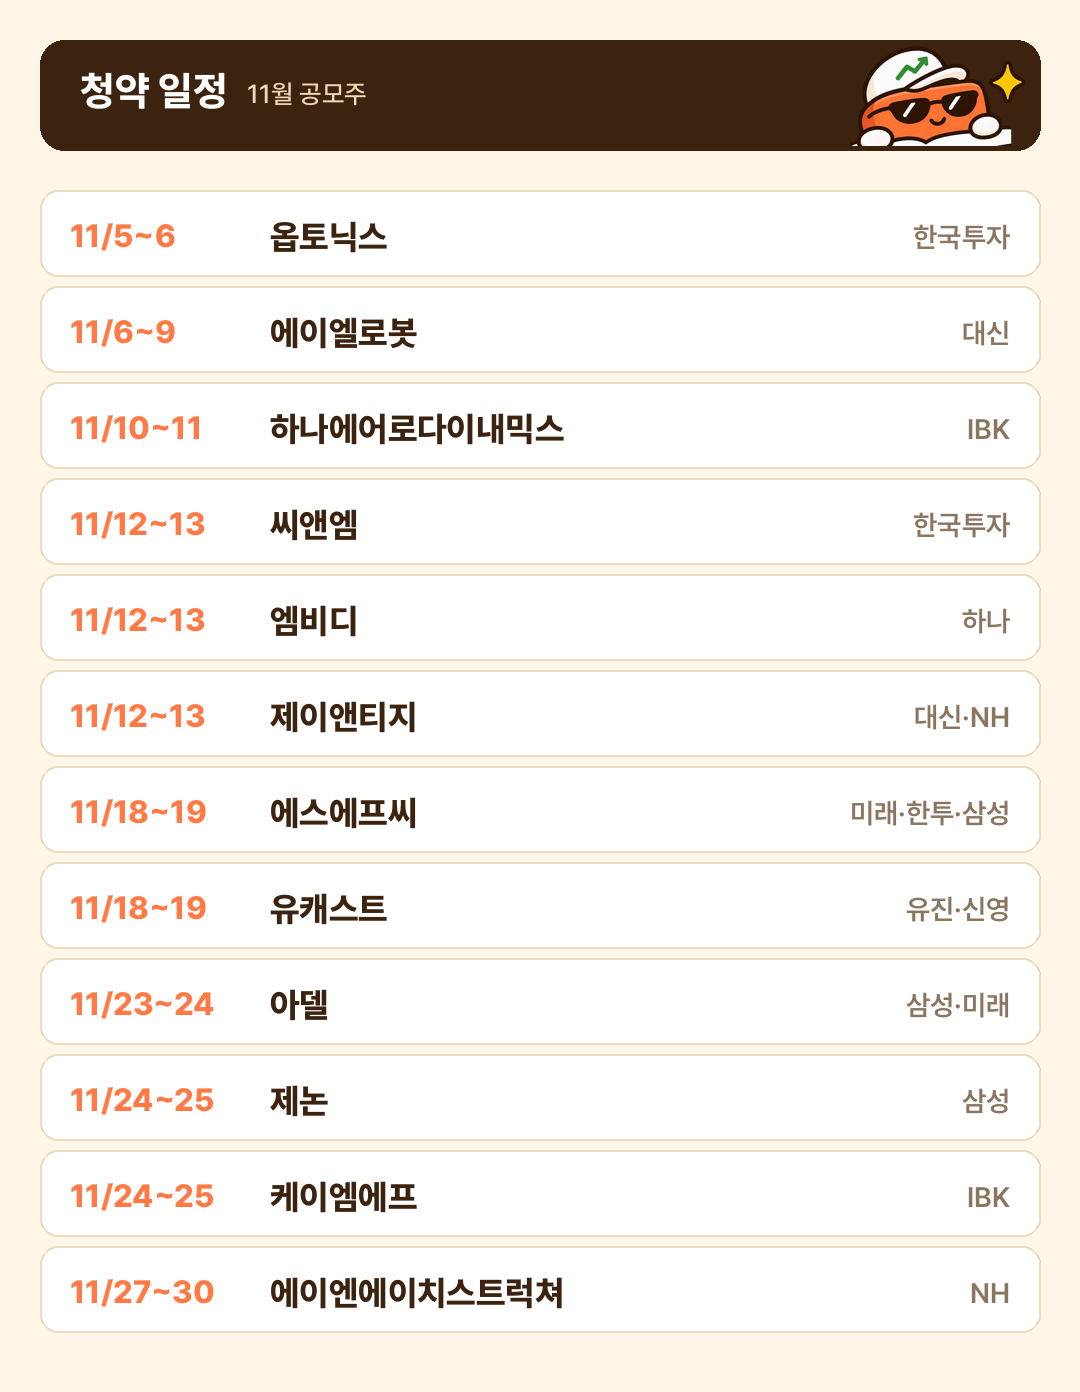
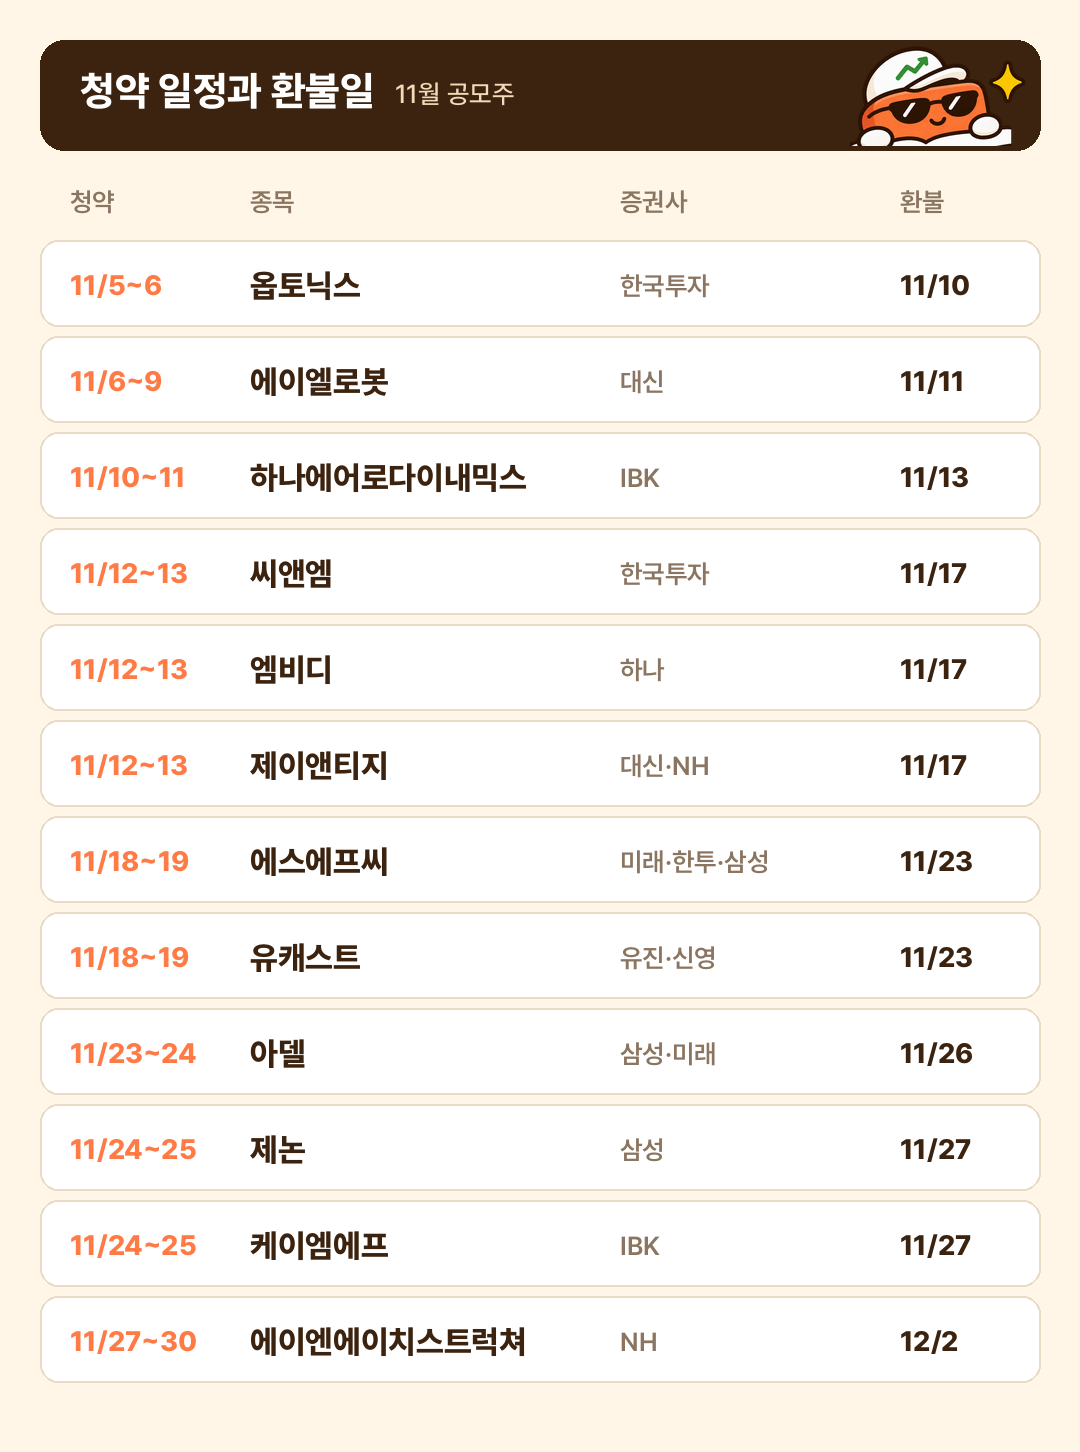
Rework November IPO cards around margin calendar

Changed region(s): [[0.0306, 0.0309, 0.9778, 0.8032], [0.0306, 0.8341, 0.9472, 0.9576]]

diff --git a/scripts/make_month_cards.py b/scripts/make_month_cards.py
@@ -3,15 +3,16 @@
 사용법:
     python3 scripts/make_month_cards.py data/ipo/2026-11-month.json
 
-입력 JSON 하나로 썸네일 + 일정 카드 + 증권사 카드를 ipo/<slug>/ 에 만든다.
+입력 JSON 하나로 썸네일 + 일정 카드 + 증거금 달력 카드를 ipo/<slug>/ 에 만든다.
 """
 import json
 import os
 import sys
+from datetime import date, timedelta
 
 from PIL import Image, ImageDraw
 
-from make_cards import BEIGE, BROWN, LINE, MUTED, ORANGE, ROOT, WHITE, F, ensure_font, fit, header, rr, thumbnail
+from make_cards import BEIGE, BROWN, LINE, MUTED, ORANGE, ROOT, SOFT_ORANGE, WHITE, F, ensure_font, fit, header, rr, thumbnail
 
 W = 1080
 ROW = 96
@@ -19,35 +20,62 @@ ROW = 96
 
 def schedule(c, out):
     rows = c["schedule"]
-    H = 190 + ROW * len(rows) + 50
+    H = 250 + ROW * len(rows) + 50
     img = Image.new("RGBA", (W, H), BEIGE); d = ImageDraw.Draw(img)
     header(d, img, c["schedule_title"], c["name"], W)
-    y = 190
-    for date, name, broker in rows:
+    for x, label in ((70, "청약"), (250, "종목"), (620, "증권사"), (900, "환불")):
+        d.text((x, 186), label, font=F("SemiBold", 26), fill=MUTED)
+    y = 240
+    for date, name, broker, refund in rows:
         rr(d, (40, y, W - 40, y + ROW - 10), 18, fill=WHITE, outline=LINE, width=2)
-        d.text((70, y + 26), date, font=F("ExtraBold", 32), fill=ORANGE)
-        fs = fit(d, name, "ExtraBold", 34, 400)
-        d.text((270, y + 26), name, font=F("ExtraBold", fs), fill=BROWN)
-        fs = fit(d, broker, "SemiBold", 28, 330)
-        tw = d.textlength(broker, font=F("SemiBold", fs))
-        d.text((W - 70 - tw, y + 30), broker, font=F("SemiBold", fs), fill=MUTED)
+        d.text((70, y + 28), date, font=F("ExtraBold", 28), fill=ORANGE)
+        fs = fit(d, name, "ExtraBold", 32, 350)
+        d.text((250, y + 26), name, font=F("ExtraBold", fs), fill=BROWN)
+        fs = fit(d, broker, "SemiBold", 26, 260)
+        d.text((620, y + 30), broker, font=F("SemiBold", fs), fill=MUTED)
+        d.text((900, y + 28), refund, font=F("ExtraBold", 28), fill=BROWN)
         y += ROW
     img.convert("RGB").save(f"{out}/card_schedule.png")
 
 
-def brokers(c, out):
-    rows = c["brokers"]
-    H = 190 + 118 * len(rows) + 50
+def margins(c):
+    """종목별 증거금(50%)과 날짜별 묶이는 돈. 마감일에 넣고 환불일 아침에 돌아온다고 본다."""
+    bricks = [(n, date.fromisoformat(a), date.fromisoformat(b), p * q // 2) for n, a, b, p, q in c["bricks"]]
+    days = [bricks[0][1] + timedelta(i) for i in range((bricks[-1][2] - bricks[0][1]).days + 1)]
+    tied = {d: sum(m for _, a, b, m in bricks if a <= d < b) for d in days}
+    return bricks, days, tied
+
+
+def bricks_card(c, out):
+    bricks, days, tied = margins(c)
+    row, top, left, right = 62, 250, 280, W - 60
+    day_w = (right - left) / len(days)
+    peak = max(tied.values())
+    H = top + row * len(bricks) + 190
     img = Image.new("RGBA", (W, H), BEIGE); d = ImageDraw.Draw(img)
-    header(d, img, c["brokers_title"], c["name"], W)
-    y = 190
-    for broker, names in rows:
-        rr(d, (40, y, W - 40, y + 104), 20, fill=WHITE, outline=LINE, width=2)
-        d.text((70, y + 32), broker, font=F("ExtraBold", 36), fill=BROWN)
-        fs = fit(d, names, "SemiBold", 30, 590)
-        d.text((400, y + 36), names, font=F("SemiBold", fs), fill=MUTED)
-        y += 118
-    img.convert("RGB").save(f"{out}/card_brokers.png")
+    header(d, img, c["bricks_title"], c["name"], W)
+    x_of = lambda day: left + (day - days[0]).days * day_w
+    bottom = top + row * len(bricks)
+    for day in days:
+        if tied[day] == peak:  # 가장 많이 묶이는 날 표시
+            d.rectangle((x_of(day), top - 10, x_of(day) + day_w, bottom), fill=SOFT_ORANGE)
+    for day in days:
+        if day.weekday() == 0 or day == days[0]:
+            d.line((x_of(day), top - 10, x_of(day), bottom), fill=LINE, width=2)
+            d.text((x_of(day) + 2, top - 50), f"{day.month}/{day.day}", font=F("SemiBold", 24), fill=MUTED)
+    for i, (name, a, b, m) in enumerate(bricks):
+        y = top + i * row
+        fs = fit(d, name, "SemiBold", 26, 205)
+        d.text((60, y + 14), name, font=F("SemiBold", fs), fill=BROWN)
+        rr(d, (x_of(a), y + 8, x_of(b), y + row - 8), 8, fill=ORANGE, outline=BROWN, width=2)
+    total = sum(m for *_, m in bricks)
+    rr(d, (40, bottom + 30, W - 40, bottom + 140), 22, fill=ORANGE)
+    msg = f"12곳 합계 {total:,}원 → 가장 많이 묶이는 날 {peak:,}원"
+    fs = fit(d, msg, "ExtraBold", 36, W - 140)
+    tw = d.textlength(msg, font=F("ExtraBold", fs))
+    d.text(((W - tw) / 2, bottom + 62), msg, font=F("ExtraBold", fs), fill=WHITE)
+    img.convert("RGB").save(f"{out}/card_bricks.png")
+    return total, peak, tied
 
 
 def main(path):
@@ -56,8 +84,11 @@ def main(path):
         c = json.load(f)
     out = os.path.join(ROOT, "ipo", c["slug"])
     os.makedirs(out, exist_ok=True)
-    thumbnail(c, out); schedule(c, out); brokers(c, out)
-    print("saved to", out)
+    thumbnail(c, out); schedule(c, out)
+    total, peak, tied = bricks_card(c, out)
+    print("saved to", out, f"(합계 {total:,}, 최대 {peak:,})")
+    for day, amount in tied.items():
+        print(day, f"{amount:,}")
 
 
 if __name__ == "__main__":
